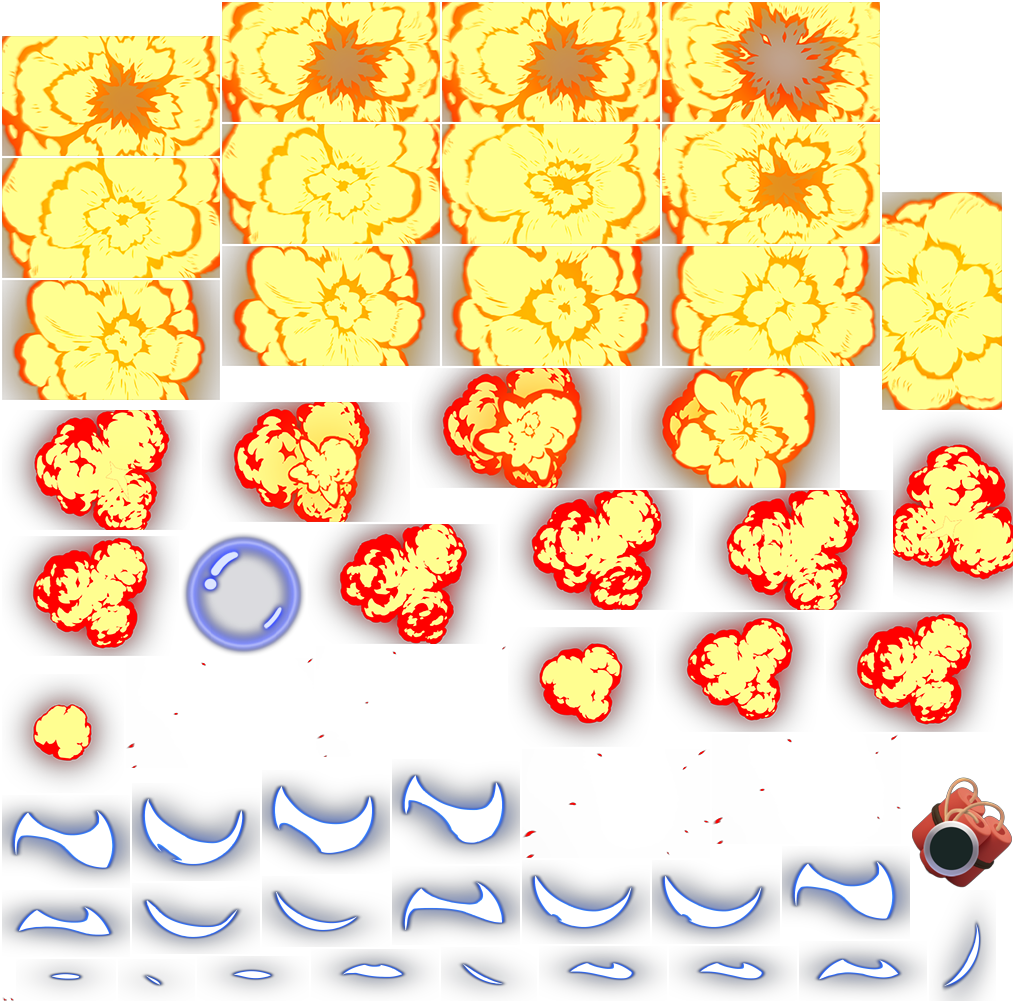
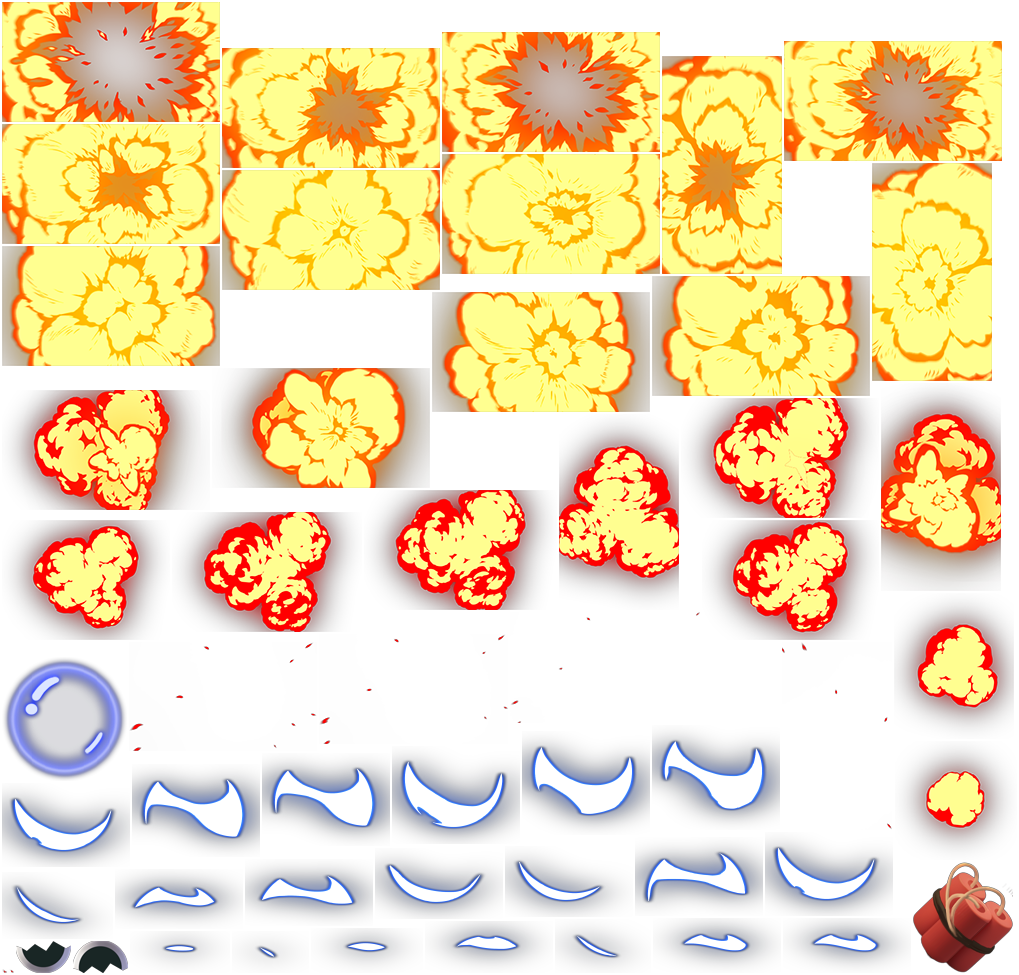
炸弹消失添加

diff --git a/Assets/Scripts/Ctrl/BottleCtrl.cs b/Assets/Scripts/Ctrl/BottleCtrl.cs
@@ -11,6 +11,8 @@ using System.Linq;
 using UnityEngine;
 using UnityEngine.UI;
 using static LevelCreateCtrl;
+using static System.Net.Mime.MediaTypeNames;
+using Image = UnityEngine.UI.Image;
 
 public class BottleCtrl : MonoBehaviour, IController, ICanSendEvent, ICanRegisterEvent
 {
@@ -71,7 +73,7 @@ public class BottleCtrl : MonoBehaviour, IController, ICanSendEvent, ICanRegiste
         bubbleSpine;// 气泡特效动画
 
     //           水柱顶部、   水柱底部、    容量1瓶子、   容量2的瓶子、 容量3的瓶子、   容量4的瓶子 
-    public Image ImgWaterTop, ImgWaterDown, ImgBottleOne, ImgBottleTwo, ImgBottleThree, ImgBottleFour;
+    public UnityEngine.UI.Image ImgWaterTop, ImgWaterDown, ImgBottleOne, ImgBottleTwo, ImgBottleThree, ImgBottleFour;
 
     public SkeletonGraphic 
         nearHide,           // 消除遮挡布动画
@@ -334,12 +336,35 @@ public class BottleCtrl : MonoBehaviour, IController, ICanSendEvent, ICanRegiste
         isBomb = false;
         for (int i = 0; i < bombCounts.Count; i++)
         {
+           
             // 设置时间
             // waterImg[i].textItem.text = bombCounts[i] - moveNum > 0 && hideWaters[i] == false ? (bombCounts[i] - moveNum).ToString() : "";
-            if (bombCounts[i] - moveNum > 0 && hideWaters[i] == false&&bombCounts[i]!=0)
-            {
-                waterImg[i].bombCtrl.SetBomb(true, (bombCounts[i] - moveNum).ToString());
+             // 100用来特殊标记
+             if (bombCounts[i] == 100)
+             { 
                
+                waterImg[i].bombCtrl.SetBomb(aniType:"bomp_remove");
+                 waterImg[i].textItem.text = "";       
+                bombCounts[i] = 0;   
+               
+             }
+            else if(bombCounts[i] - moveNum > 0 && hideWaters[i] == false&&bombCounts[i]!=0)
+            {
+               waterImg[i].bombCtrl.SetBomb(true, (bombCounts[i] - moveNum).ToString());
+            /*    DG.Tweening.Sequence flashSequence = DOTween.Sequence();*/
+                /*   flashSequence.Append(
+                   waterImg[i].textItem.DOFade(0f, 0.2f).SetLoops(10, LoopType.Yoyo) 
+                   );
+
+                   // 2. 动画结束后归零
+                   flashSequence.OnComplete(() =>
+                   {
+                       waterImg[i].textItem.text = "";       // 清空文本
+                       bombCounts[i] = 0;    // 重置计数
+                       waterImg[i].textItem.alpha = 1f;      // 恢复透明度
+                   });*/
+                
+
             }
             else
             {
@@ -831,11 +856,13 @@ public class BottleCtrl : MonoBehaviour, IController, ICanSendEvent, ICanRegiste
                 waterItems[i] = WaterItem.None;
                 if(bombCounts.Count>i)
                 {
-                    bombCounts[i] = 0;
+                   
+                    bombCounts[i] = 100;
                 }
                    
             }
         }
+
         UpdateBomb();
         CheckWaterItem();
         StartCoroutine(ShowFinish());
@@ -1401,7 +1428,7 @@ public class BottleCtrl : MonoBehaviour, IController, ICanSendEvent, ICanRegiste
 
     public void MoveToOtherAnim(BottleCtrl other, int topIndex, int numWater, int useColor = -1)
     {
-        Image bottleClickMask = bottle.GetComponent<Image>();
+        UnityEngine.UI.Image bottleClickMask = bottle.GetComponent<Image>();
 
         //获取移动终点
         var (_targetPos, _dir) = GetMoveToPos(transform, other.transform ,other.leftMovePlace);

diff --git a/Assets/Scripts/Ctrl/BombCtrl.cs b/Assets/Scripts/Ctrl/BombCtrl.cs
@@ -6,6 +6,7 @@ using Spine.Unity;
 using QFramework;
 using QFramework.Example;
 using DG.Tweening;
+using Spine;
 
 public class BombCtrl : MonoBehaviour
 {
@@ -32,7 +33,7 @@ public class BombCtrl : MonoBehaviour
         skeletonAnimation.SetActive(true);
 
         skeletonAnimationCom.AnimationState.Event += CloseUI;
-        skeletonAnimationCom.AnimationState.SetAnimation(0, "attack", false);
+        skeletonAnimationCom.AnimationState.SetAnimation(0, "combine", false);
 
 
         skeletonAnimationCom.GetComponent<MeshRenderer>().sortingOrder += 2;
@@ -46,11 +47,30 @@ public class BombCtrl : MonoBehaviour
       
 
     }
-    public void SetBomb(bool isBomb= false, string time="")
+
+    public void BombIsFinish()
     {
-        var currentTrackEntry = skeletonGraphic.AnimationState.GetCurrent(0);
-        if (currentTrackEntry != null&& currentTrackEntry.Animation.Name == "attack")
+        skeletonAnimation.SetActive(true);
+        
+        skeletonAnimationCom.AnimationState.Complete+=BombFinishEnd;
+        skeletonAnimationCom.AnimationState.SetAnimation(0, "bomp_remove", false);
+        skeletonAnimationCom.GetComponent<MeshRenderer>().sortingOrder += 2;
+        bombSpine.SetActive(false);
+    }
+    public void SetBomb(bool isBomb= false, string time="",string aniType = "combine")
+    {
+      
+        if (aniType == "bomp_remove")
         {
+           
+            BombIsFinish();
+            return;
+        }
+         
+        var currentTrackEntry = skeletonGraphic.AnimationState.GetCurrent(0);
+        if (currentTrackEntry != null&&( currentTrackEntry.Animation.Name == "combine"|| currentTrackEntry.Animation.Name == "bomp_remove"))
+        {
+           
              return;
         }
     
@@ -59,6 +79,12 @@ public class BombCtrl : MonoBehaviour
         // skeletonGraphic.AnimationState.SetAnimation(0, "idle", false);
 
 
+    }
+    public void BombFinishEnd(TrackEntry trackEntry)
+    {
+
+        skeletonAnimation.SetActive(false);
+        skeletonAnimationCom.AnimationState.Complete -= BombFinishEnd;
     }
 
     public void CloseUI(Spine.TrackEntry trackEntry, Spine.Event e)
@@ -69,16 +95,15 @@ public class BombCtrl : MonoBehaviour
        UIKit.OpenPanel<UIRetry>();
 
         skeletonAnimationCom.AnimationState.SetAnimation(0, "idle", false);
-      
-        
+    
         bombSpine.transform.localPosition = Vector3.zero;
-        
-       
+             
         skeletonAnimation.transform.localPosition = Vector3.zero;
         skeletonAnimation.SetActive(false);
 
         skeletonAnimationCom.AnimationState.Event -= CloseUI;
 
-
     }
+
+    
 }
